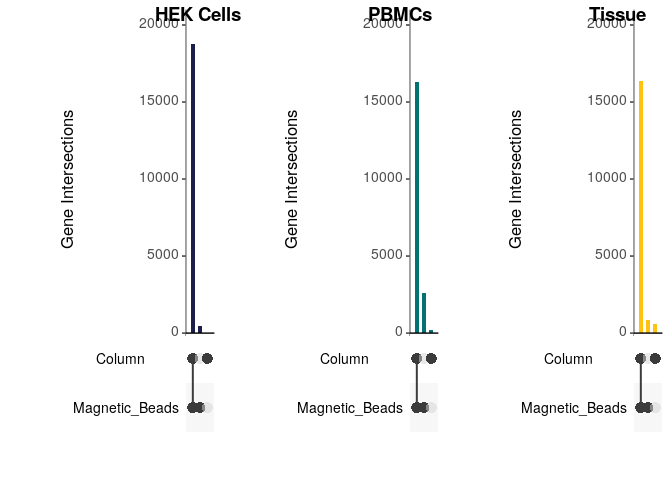
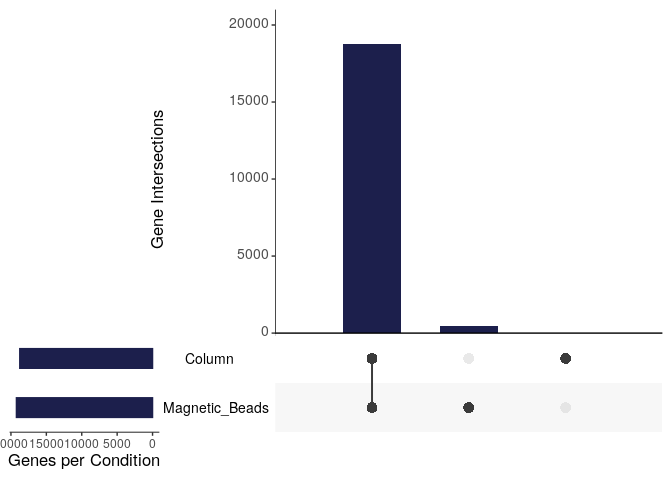
Add Markdown

diff --git a/1_RNA_isolation/Lysis_sensitivity.md b/1_RNA_isolation/Lysis_sensitivity.md
@@ -73,9 +73,9 @@ coding_genes_hek<-rownames(counts_hek$umicount$inex$all)[!(rownames(counts_hek$u
 
 ## 5\. Subset for only coding Genes and retrieve Gene and UMI counts
 
-The ‘colapse\_downsampled\_counts()’ function iterates through the list
-of different downsampling depth generated by zUMIs and extracts number
-of Genes and number of UMIs
+The `colapse_downsampled_counts()` function iterates through the list of
+different downsampling depth generated by zUMIs and extracts number of
+Genes and number of UMIs
 
 ``` r
 #HEK
@@ -330,14 +330,16 @@ Upset plots are a nice way to display overlapp between several groups in
 this case the overlap in detected genes in the different conditions is
 ploted.
 
-#### Make ‘upset()’ plot for HEK cells
+#### Make `upset()` plot for HEK cells
 
 ``` r
-#HEK
+# Filter other Conditions in HEK cells
+
 hek_inf_b <- (inf %>% filter(Condition == "Magnetic Beads") %>% filter(Celltype == "HEK"))$XC
 hek_inf_c <- (inf %>% filter(Condition == "Column") %>% filter(Celltype == "HEK"))$XC
 
-## we take the downsampled counts here to 
+## we take the downsampled counts here 
+
 hek_inex_umi_500 <- as.matrix(counts_hek$umicount$inex$downsampling$downsampled_500000) %>% remove_Geneversion()
 hek_upsetR_df <- hek_inex_umi_500[whichgenes_reproducible(hek_inex_umi_500,1,0.25), ]
 
@@ -349,11 +351,14 @@ colnames(hek_upsetR_df) <- c("Column",
                           "Magnetic_Beads",
                           "ENSEMBL")
 
+## Make dataframe with Genes IDs detected in either of the two Conditions
 hek_upsetR_df <- hek_upsetR_df %>%
   mutate('Column' = ifelse(Column > 0, paste(ENSEMBL), NA),
          'Magnetic_Beads' = ifelse(Magnetic_Beads > 0, paste(ENSEMBL), NA)) %>%
   dplyr::select(-ENSEMBL) %>%
   filter_all(any_vars(!is.na(.)))
+
+## Make upset plot from this df
 
 upset_hek <- upset(fromList(hek_upsetR_df), order.by = "freq",
                  main.bar.color = "#1c1f4c", 
@@ -365,7 +370,13 @@ upset_hek <- upset(fromList(hek_upsetR_df), order.by = "freq",
                  point.size = 3.5,
                  mainbar.y.max = 20000)
 
-hek_sum_df<-table(fromList(hek_upsetR_df)$Column,fromList(hek_upsetR_df)$Magnetic_Beads) %>% 
+upset_hek
+```
+
+![](Lysis_sensitivity_files/figure-gfm/upsetr%20hek-1.png)<!-- -->
+
+``` r
+hek_sum_df<-table(fromList(hek_upsetR_df)$Column,fromList(hek_upsetR_df)$Magnetic_Beads) %>%
   as.data.frame() %>% 
   mutate(type=if_else(Var1==Var2,"shared","unique")) %>% 
   group_by(type) %>% 
@@ -375,11 +386,16 @@ hek_sum_df<-table(fromList(hek_upsetR_df)$Column,fromList(hek_upsetR_df)$Magneti
   filter(c(F,T)) %>% 
   mutate(total=as.integer(V1)+as.integer(V2),
          sample="HEK")
-#pbmcs
+```
+
+#### Make `upset()` plot for PBMCs
+
+``` r
 pbmc_inf_b <- (inf %>% filter(Condition == "Magnetic Beads") %>% filter(Celltype == "PBMCs"))$XC
 pbmc_inf_c <- (inf %>% filter(Condition == "Column") %>% filter(Celltype == "PBMCs"))$XC
 pbmc_inex_umi_500 <- as.matrix(counts_pbmc$umicount$inex$downsampling$downsampled_500000) %>% remove_Geneversion()
 pbmc_upsetR_df <- pbmc_inex_umi_500[whichgenes_reproducible(pbmc_inex_umi_500,1,0.25), ]
+
 
 pbmc_upsetR_df <- bind_cols(as.data.frame(rowSums(pbmc_upsetR_df[,colnames(pbmc_upsetR_df) %in% pbmc_inf_c])),
                         as.data.frame(rowSums(pbmc_upsetR_df[,colnames(pbmc_upsetR_df) %in% pbmc_inf_b])),
@@ -388,11 +404,15 @@ colnames(pbmc_upsetR_df) <- c("Column",
                           "Magnetic_Beads",
                           "ENSEMBL")
 
+## Make dataframe with Genes IDs detected in either of the two Conditions
+
 pbmc_upsetR_df <- pbmc_upsetR_df %>%
   mutate('Column' = ifelse(Column > 0, paste(ENSEMBL), NA),
          'Magnetic_Beads' = ifelse(Magnetic_Beads > 0, paste(ENSEMBL), NA)) %>%
   dplyr::select(-ENSEMBL) %>%
   filter_all(any_vars(!is.na(.)))
+
+## Make upset plot from this df
 
 upset_pbmc <- upset(fromList(pbmc_upsetR_df), order.by = "freq",
                  main.bar.color = "#037272", 
@@ -403,7 +423,12 @@ upset_pbmc <- upset(fromList(pbmc_upsetR_df), order.by = "freq",
                  text.scale = c(1.5, 1.5, 1.5, 1.3, 1.5, 1.5), 
                  point.size = 3.5,
                  mainbar.y.max = 20000)
+upset_pbmc
+```
 
+![](Lysis_sensitivity_files/figure-gfm/upsetr%20PBMC-1.png)<!-- -->
+
+``` r
 pbmc_sum_df<-table(fromList(pbmc_upsetR_df)$Column,fromList(pbmc_upsetR_df)$Magnetic_Beads) %>% 
   as.data.frame() %>% 
   mutate(type=if_else(Var1==Var2,"shared","unique")) %>% 
@@ -414,7 +439,11 @@ pbmc_sum_df<-table(fromList(pbmc_upsetR_df)$Column,fromList(pbmc_upsetR_df)$Magn
   filter(c(F,T)) %>% 
   mutate(total=as.integer(V1)+as.integer(V2),
          sample="PBMC")
+```
 
+#### Make `upset()` plot for Striatal Tissue
+
+``` r
 #tissue
 tissue_inf_b <- (inf %>% filter(Condition == "Magnetic Beads") %>% filter(Celltype == "Tissue"))$XC
 tissue_inf_c <- (inf %>% filter(Condition == "Column") %>% filter(Celltype == "Tissue"))$XC
@@ -428,12 +457,16 @@ colnames(tissue_upsetR_df) <- c("Column",
                           "Magnetic_Beads",
                           "ENSEMBL")
 
+## Make dataframe with Genes IDs detected in either of the two Conditions
+
 tissue_upsetR_df <- tissue_upsetR_df %>%
   mutate('Column' = ifelse(Column > 0, paste(ENSEMBL), NA),
          'Magnetic_Beads' = ifelse(Magnetic_Beads > 0, paste(ENSEMBL), NA)) %>%
   dplyr::select(-ENSEMBL) %>%
   filter_all(any_vars(!is.na(.)))
 
+
+## Make upset plot from this df
 upset_tissue <- upset(fromList(tissue_upsetR_df), order.by = "freq",
                  main.bar.color = "#fec20f", 
                  sets.bar.color = "#fec20f", 
@@ -444,6 +477,12 @@ upset_tissue <- upset(fromList(tissue_upsetR_df), order.by = "freq",
                  point.size = 3.5,
                  mainbar.y.max = 20000)
 
+upset_tissue
+```
+
+![](Lysis_sensitivity_files/figure-gfm/upsetr%20striatum-1.png)<!-- -->
+
+``` r
 tissue_sum_df<-table(fromList(tissue_upsetR_df)$Column,fromList(tissue_upsetR_df)$Magnetic_Beads) %>% 
   as.data.frame() %>% 
   mutate(type=if_else(Var1==Var2,"shared","unique")) %>% 
@@ -474,4 +513,4 @@ figS2_upset <-cowplot::plot_grid(as.grob(upset_hek), as.grob(upset_pbmc), as.gro
 figS2_upset
 ```
 
-![](Lysis_sensitivity_files/figure-gfm/upsetr%20hek-1.png)<!-- -->
+![](Lysis_sensitivity_files/figure-gfm/upsetr%20combined-1.png)<!-- -->

diff --git a/README.md b/README.md
@@ -49,7 +49,8 @@ HEK cells, human PBMCs and mouse striatal Tissue with either Columns or
 SPRI beads. R Notebooks for this analysis can be found
 [here](1_RNA_isolation/).
 
-Markdown [Lysis features](1_RNA_isolation/Lysis_features.md)
+Markdown [Lysis features](1_RNA_isolation/Lysis_features.md) Markdown
+[Lysis sensitivity](1_RNA_isolation/Lysis_sensitivity.md)
 
 ## 2\. Figure: power simulations
 
